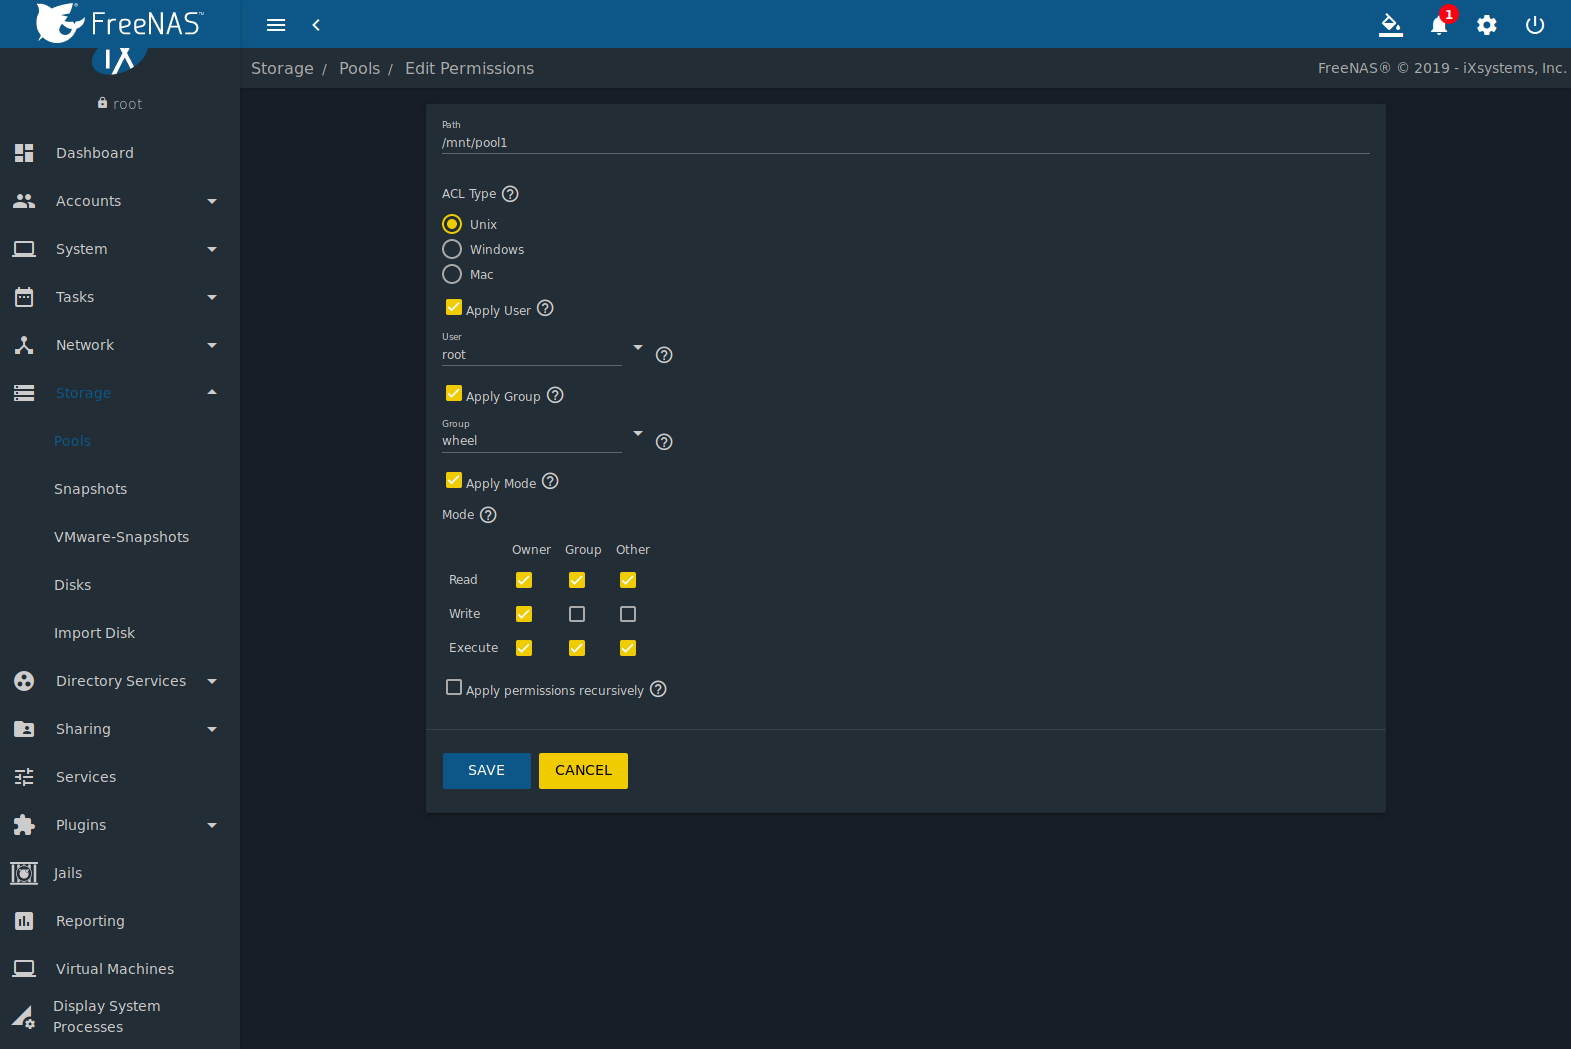
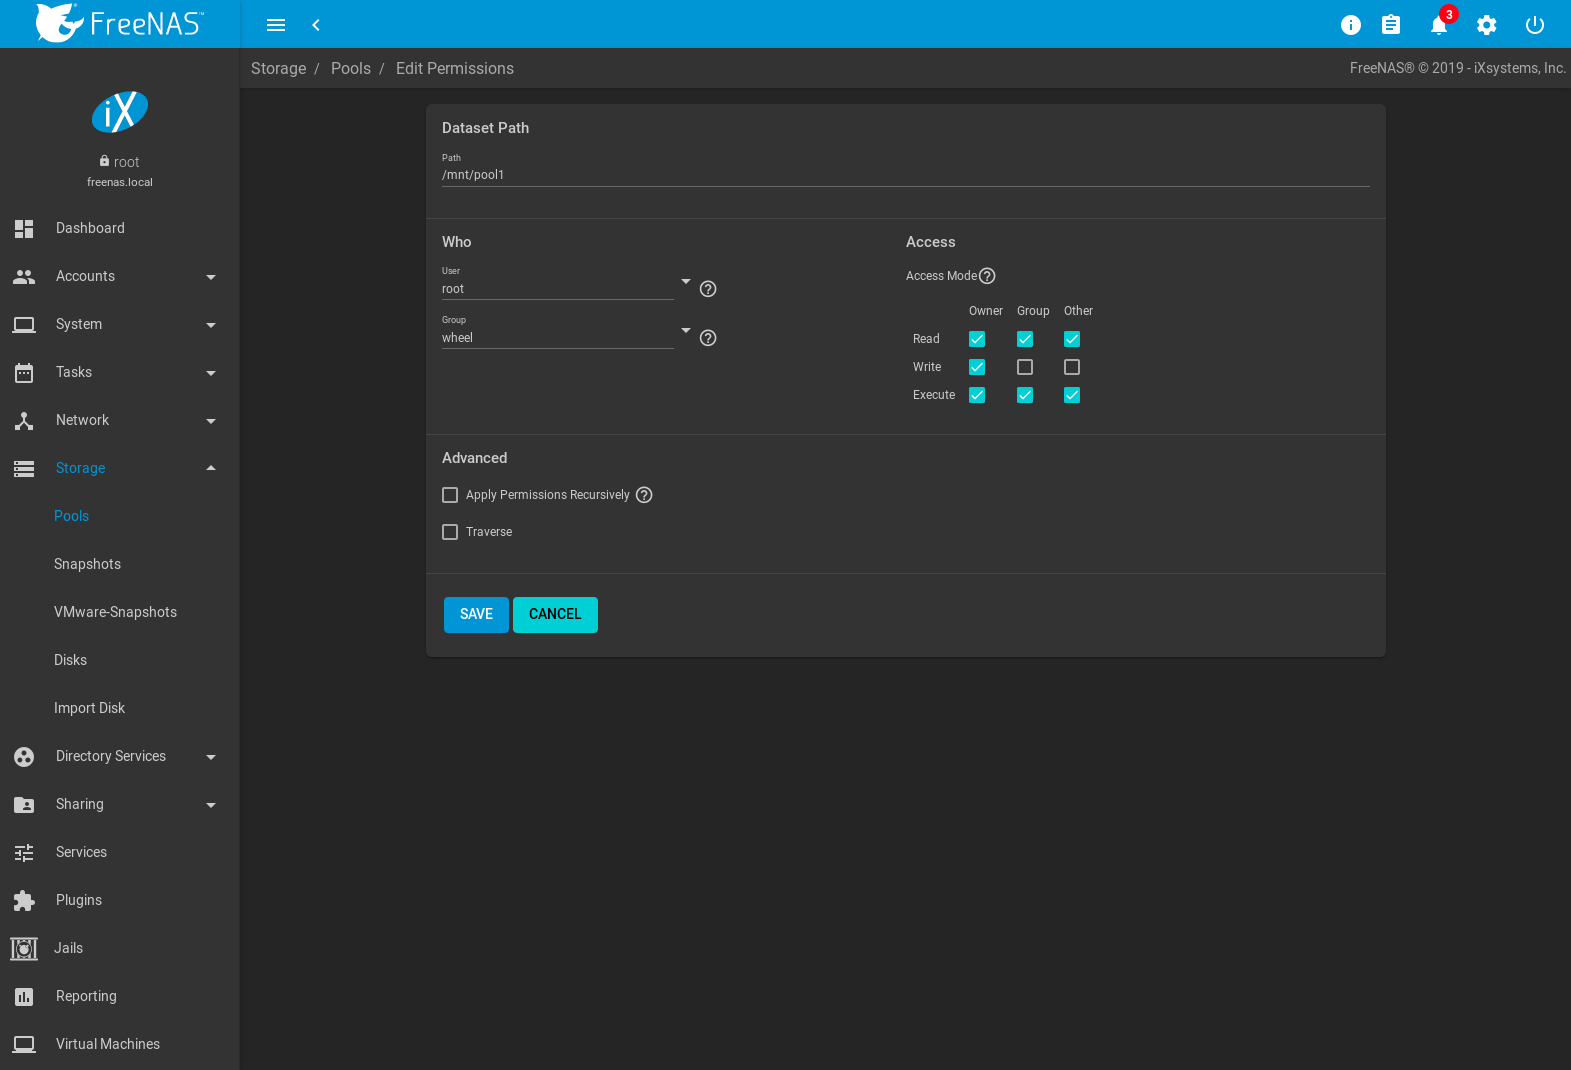
NAS-102656: Update 'Setting Permissions' section - Remove obsolete text. - Update permissions editor screenshot - Update Permission Options table to match the UI and compact - Add draft description for the Traverse option (port to UI help text when ready) - Add intro entries for changes. - HTML buil

diff --git a/userguide/storage.rst b/userguide/storage.rst
@@ -1225,11 +1225,11 @@ Setting Permissions
 ~~~~~~~~~~~~~~~~~~~
 
 Setting permissions is an important aspect of managing data access. The
-|web-ui| is meant to set the **initial**
-permissions for a pool or dataset to make it available as a
-share. Once a share is available, the client operating system is
-used to fine-tune the permissions of the files and directories that
-are created by the client.
+|web-ui| is meant to set the **initial** permissions for a pool or
+dataset to make it available as a share. When a share is made available,
+the client operating system and :ref:`ACL manager <ACL Management>` is
+used to fine-tune the permissions of the files and directories that are
+created by the client.
 
 :ref:`Sharing` contains configuration examples for several types of
 permission scenarios. This section provides an overview of the options
@@ -1238,25 +1238,24 @@ available for configuring the initial set of permissions.
 .. note:: For users and groups to be available, they must either be
    first created using the instructions in :ref:`Accounts` or imported
    from a directory service using the instructions in
-   :ref:`Directory Services`. If more than 50 users or groups are
-   available, the drop-down menus described in this section will
-   automatically truncate their display to 50 for performance reasons.
-   In this case, start to type in the desired user or group name so
-   that the display narrows its search to matching results.
+   :ref:`Directory Services`. When more than 50 users or groups are
+   available, the drop-down menus described in this section are
+   automatically truncated to 50 for performance reasons. In this case,
+   begin typing in the desired user or group name for the display to
+   narrow its search to matching results.
 
-To set the permissions on a pool or dataset, select its entry in
+
+To set the permissions on a dataset, select its entry in
 :menuselection:`Storage --> Pools`, click |ui-options|, then
-:guilabel:`Edit Permissions`. This displays the screen shown in
-:numref:`Figure %s <storage_permissions_fig>`.
-:numref:`Table %s <storage_permissions_tab>` lists the options in this
-screen.
-
+:guilabel:`Edit Permissions`.
+:numref:`Table %s <storage_permissions_tab>` describes the options in
+this screen.
 
 .. _storage_permissions_fig:
 
 .. figure:: images/storage-pools-edit-permissions.png
 
-   Changing Permissions on a Dataset
+   Dataset Permissions
 
 
 .. tabularcolumns:: |>{\RaggedRight}p{\dimexpr 0.25\linewidth-2\tabcolsep}
@@ -1276,58 +1275,22 @@ screen.
    | Path                          | string           | Displays the path to the dataset or zvol directory.                                                        |
    |                               |                  |                                                                                                            |
    +-------------------------------+------------------+------------------------------------------------------------------------------------------------------------+
-   | ACL Type                      | bullet selection | Select the type that matches the type of client accessing the dataset.                                     |
-   |                               |                  |                                                                                                            |
-   +-------------------------------+------------------+------------------------------------------------------------------------------------------------------------+
-   | Apply User                    | checkbox         | Apply changes to the user.                                                                                 |
-   +-------------------------------+------------------+------------------------------------------------------------------------------------------------------------+
    | User                          | drop-down menu   | Select the user to control the dataset. Users created manually or imported from a directory service appear |
    |                               |                  | in the drop-down menu.                                                                                     |
    |                               |                  |                                                                                                            |
-   +-------------------------------+------------------+------------------------------------------------------------------------------------------------------------+
-   | Apply Group                   | checkbox         | Apply changes to the group.                                                                                |
    +-------------------------------+------------------+------------------------------------------------------------------------------------------------------------+
    | Group                         | drop-down menu   | Select the group to control the dataset. Groups created manually or imported from a directory service      |
    |                               |                  | appear in the drop-down menu.                                                                              |
    |                               |                  |                                                                                                            |
    +-------------------------------+------------------+------------------------------------------------------------------------------------------------------------+
-   | Apply Access Mode             | checkbox         | Apply changes to the mode.                                                                                 |
-   +-------------------------------+------------------+------------------------------------------------------------------------------------------------------------+
    | Access Mode                   | checkboxes       | Set the read, write, and execute permissions for the dataset.                                              |
    |                               |                  |                                                                                                            |
    +-------------------------------+------------------+------------------------------------------------------------------------------------------------------------+
-   | Apply permissions recursively | checkbox         | Apply permissions recursively to all directories and files within the current dataset.                     |
+   | Apply Permissions Recursively | checkbox         | Apply permissions recursively to all directories and files within the current dataset.                     |
    +-------------------------------+------------------+------------------------------------------------------------------------------------------------------------+
-
-
-.. note:: The :guilabel:`Apply User`, :guilabel:`Apply Group`, and
-   :guilabel:`Apply Mode` options allow fine-tuning of the change
-   permissions behavior. By default, all three options are enabled and
-   %brand% resets the :guilabel:`User`, :guilabel:`Group`, and
-   :guilabel:`Mode` when the :guilabel:`SAVE` button is clicked. These
-   options allow choosing which settings to change. For example, to
-   change just the :guilabel:`Group` setting, unset the options for
-   :guilabel:`Apply User` and :guilabel:`Apply Mode`.
-
-
-The *Windows* :guilabel:`ACL Type` is used for
-:ref:`Windows (SMB) Shares` or when the %brand% system is a member of
-an Active Directory domain. This type adds ACLs to traditional Unix
-permissions. When the *Windows* :guilabel:`ACL Type` is selected, ACLs
-are set to the Windows defaults for new files and directories. A Windows
-client can be used to further fine-tune permissions as needed.
-
-.. warning:: Changing a pool or dataset with *Windows* permissions back
-   to *Unix* permissions will overwrite and destroy some of the
-   extended permissions provided by Windows ACLs.
-
-The *Unix* :guilabel:`ACL Type` is usually used with
-:ref:`Unix (NFS) Shares`. Unix permissions are compatible with most
-network clients and generally work well with a mix of operating systems
-or clients. However, *Unix* permissions do not support Windows ACLs and
-should not be used with :ref:`Windows (SMB) Shares`.
-
-The *Mac* :guilabel:`ACL Type` can be used with :ref:`Apple (AFP) Shares`.
+   | Traverse                      | checkbox         | Movement permission for this dataset. Allows users to view or interact with child datasets even when those |
+   |                               |                  | users do not have permission to view or manage the contents of this dataset.                               |
+   +-------------------------------+------------------+------------------------------------------------------------------------------------------------------------+
 
 
 .. index:: ACL

diff --git a/userguide/intro.rst b/userguide/intro.rst
@@ -139,6 +139,15 @@ These major features are new in this version:
 * An :ref:`ACL Manager <ACL Management>` has been added to
   :menuselection:`Storage --> Pools -->` |ui-options|.
 
+* The dataset :ref:`permissions editor <Setting Permissions>` has been
+  redesigned. :guilabel:`ACL Type`, :guilabel:`Apply User`,
+  :guilabel:`Apply Group`, and :guilabel:`Apply Access Mode` fields have
+  been removed from the dataset
+  :ref:`permission options <storage_permissions_tab>`.
+
+* :guilabel:`Traverse` has been added to the dataset
+  :ref:`permission options <storage_permissions_tab>`.
+
 * :guilabel:`Domain Controller` has been removed from
   :ref:`Services`.
 
